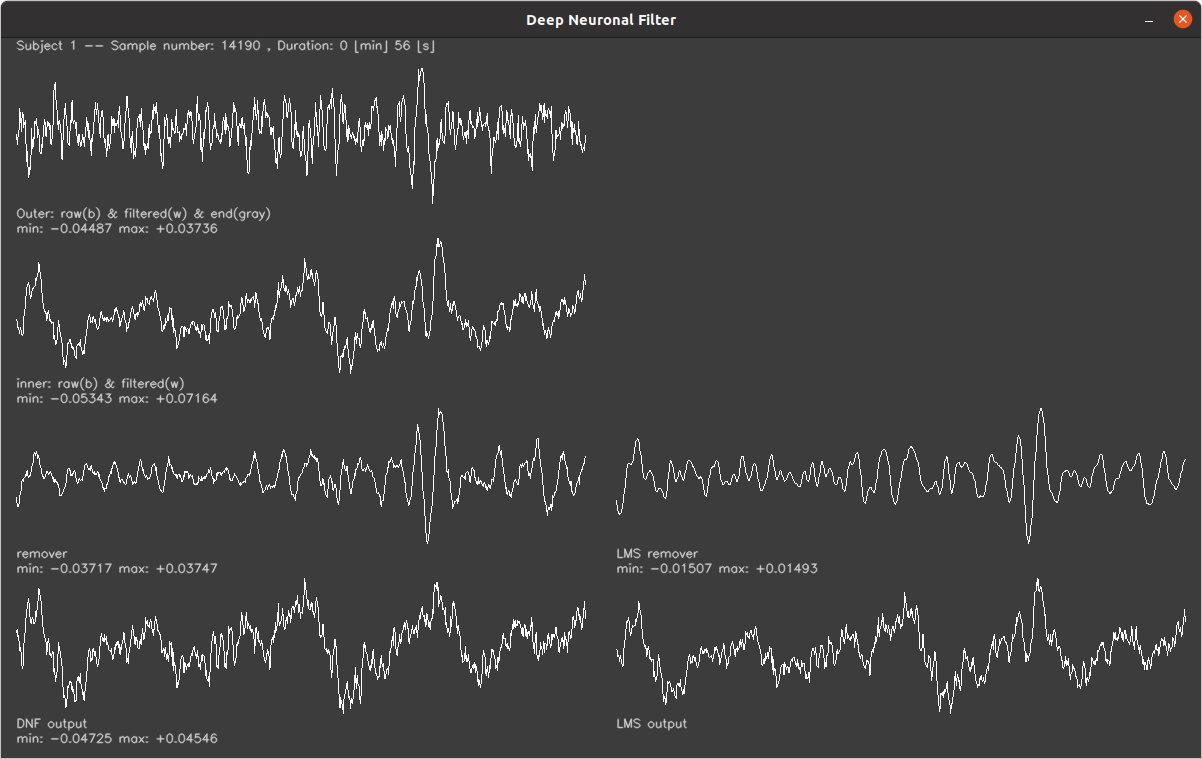
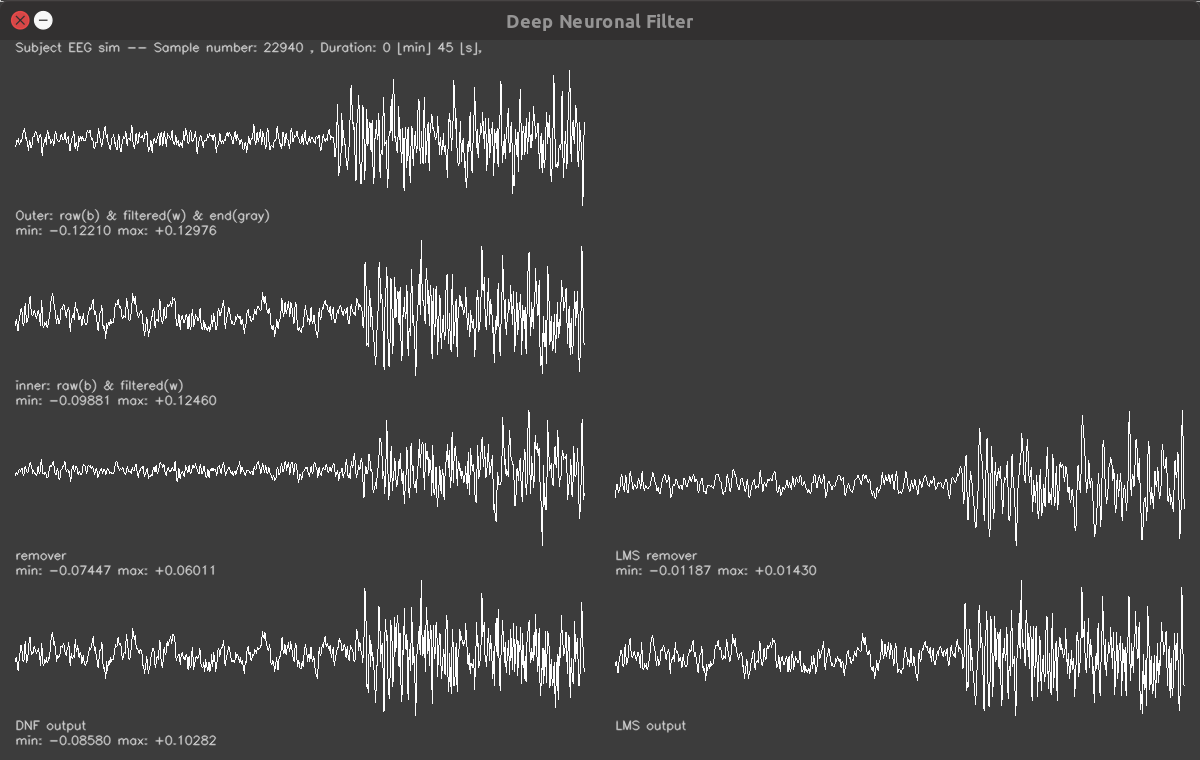
Added new screenshots and removed debug output from DNF.

diff --git a/dnf.h b/dnf.h
@@ -23,8 +23,10 @@ public:
 	 **/
 	DNF(const int NLAYERS,
 	    const int numTaps,
-	    double fs,
-	    Neuron::actMethod am = Neuron::Act_Tanh) : noiseDelayLineLength(numTaps),
+	    const double fs,
+	    const Neuron::actMethod am = Neuron::Act_Tanh,
+	    const bool debugOutput = false
+		) : noiseDelayLineLength(numTaps),
 			 signalDelayLineLength(noiseDelayLineLength / 2),
 			 signal_delayLine(signalDelayLineLength),
 			 nNeurons(new int[NLAYERS]),
@@ -42,13 +44,15 @@ public:
 		//setting up the neural networks
 		for(int i=0;i<NLAYERS;i++) {
 			NNO->getLayer(i)->initLayer(i,Neuron::W_RANDOM, Neuron::B_NONE, am);
-			fprintf(stderr,"Layer %d has %d neurons. act = %d\n",i,nNeurons[i],am);
+			if (debugOutput) {
+				fprintf(stderr,"Layer %d has %d neurons. act = %d\n",i,nNeurons[i],am);
+			}
 		}
 	}
 
 	enum ErrorPropagation { Backprop = 0, ModulatedHebb = 1 };
 
-	void setErrorPropagation(ErrorPropagation e) {
+	void setErrorPropagation(const ErrorPropagation e) {
 		errorPropagation = e;
 	}
 
@@ -58,7 +62,7 @@ public:
 	 * \param noise The reference noise. Should be less than one.
 	 * \returns The filtered signal where the noise has been removed by the DNF.
 	 **/
-	double filter(double signal, double noise) {
+	double filter(const double signal, const double noise) {
 		signal_delayLine.push_back(signal);
 		const double delayed_signal = signal_delayLine[0];
 		

diff --git a/eeg_sim/analysis/p300.py b/eeg_sim/analysis/p300.py
@@ -62,6 +62,8 @@ if __name__ == "__main__":
         print (helptext)
         sys.exit(2)
 
+    print("P300 without doing P300 because we know the pure EEG signal!")
+
     fig = plt.figure("P300 (here: crosscorr with known pure EEG signal)")
 
     ax = fig.add_subplot(1,4,1)

diff --git a/eeg_sim/parameters.h b/eeg_sim/parameters.h
@@ -5,7 +5,7 @@
 
 const int nExperiments = 20;
 const float duration = 120; // sec
-const float alpha = 0.25;
+const float alpha = 0.4;
 
 const float averageNoiseAmplitude = 15; // uV (pre filtering)
 const float standardDevNoiseAmplitude = 5; // uV
